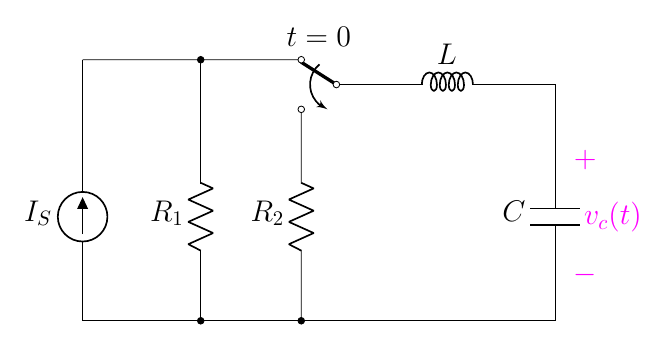
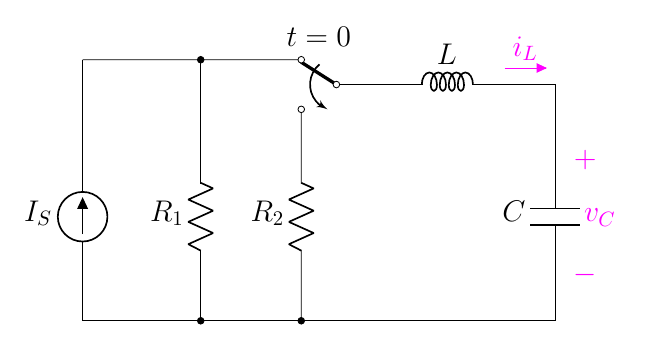
8.17

diff --git a/2.6 Overdamped/8.3.1 The Overdamp RLC Circuit/8.17(new).tex b/2.6 Overdamped/8.3.1 The Overdamp RLC Circuit/8.17(new).tex
@@ -35,7 +35,10 @@
     %%% find %%%
     \node at (4,4.8)[]{$t=0$};
     \draw[magenta](8.2,0.5)
-        to[open, v>=$v_c(t)$] ++(0,2.5);
+        to[open, v>=$v_C$] ++(0,2.5);
+
+    \draw[circuitikz/current arrow color=magenta](7,4)
+        to[open,f>^=$\color{magenta}{i_L}$] ++(2.4,0);
 
 \end{circuitikz}
 \end{document}
